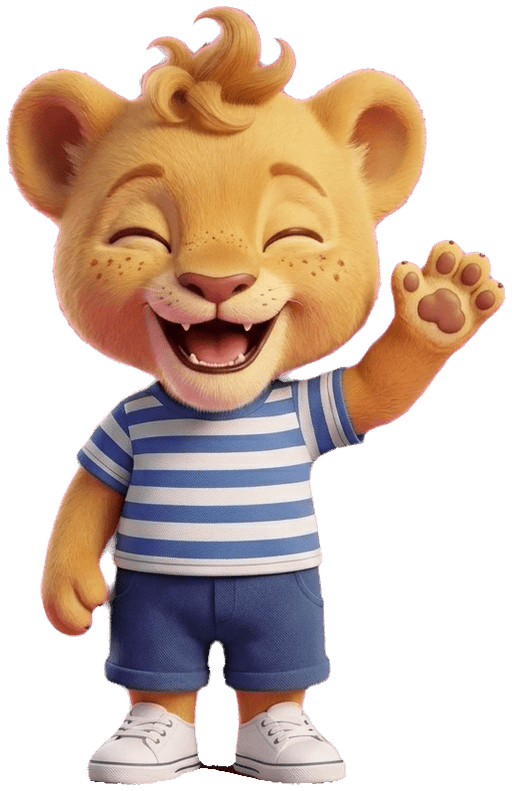
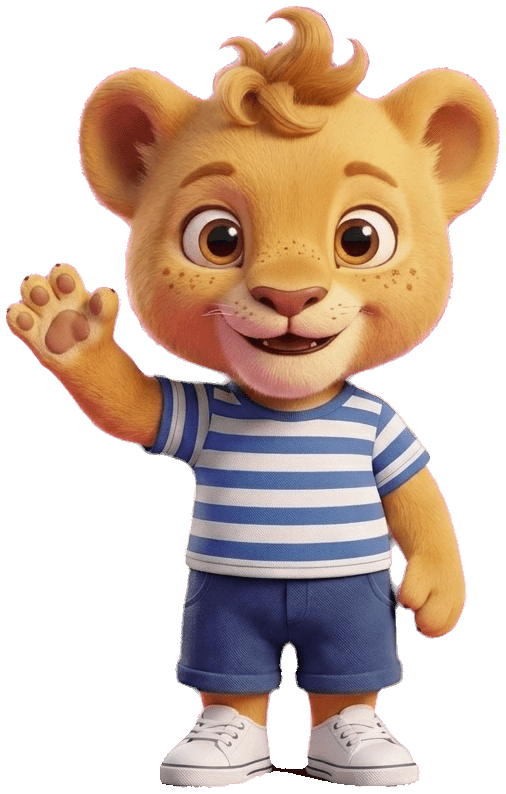
Werft: Schiff seitlich in 3D im Hafenbecken mit eigener Flagge, Wellen und Gischt; Löwe und Löwin winken mit offenen Augen
Claude-Session: https://claude.ai/code/session_01RquttY5Fvxi8zMpAb1Usdz

diff --git a/taleria/lib/features/child/ship_dock.dart b/taleria/lib/features/child/ship_dock.dart
@@ -6,19 +6,23 @@ import '../../core/app_scope.dart';
 import '../../core/assets/asset_keys.dart';
 import '../../core/assets/taleria_asset.dart';
 import '../../domain/avatar.dart';
-import '../common/lively_figure.dart';
+import '../common/ship_flag.dart';
 import '../common/wood_sign.dart';
-import 'shipyard_screen.dart' show FlaggedShip;
 
-/// Hafenbecken in der Werft: das eigene Schiff schwimmt in einem Becken aus
-/// Wasser mit Holzrand, schaukelt, Wellen ziehen vorbei und am Rumpf schäumt
-/// es. So hebt es sich vom Holz der Werft ab (Wunsch von Marc, 16.11.2026).
+/// Bühne oben in der Werft: Blick ins Hafenbecken (Bild `shipyard.dock`), darin
+/// das eigene Schiff von der Seite (`ship.side`) mit der gewählten Flagge am
+/// höchsten Mast. Das Schiff liegt im Wasser: Es schaukelt, vorne am Rumpf
+/// laufen Wellen und Gischt, der untere Rand des Rumpfs liegt unter Wasser
+/// (Wunsch von Marc, 16.11.2026: seitlich in 3D statt schräg von oben).
 /// Ohne Bewegung (Tests, „Bewegung reduzieren“) steht alles still.
 class ShipDock extends StatefulWidget {
-  const ShipDock({super.key, required this.flag, this.height = 230});
+  const ShipDock({super.key, required this.flag, this.height = 300});
 
   final ShipFlag flag;
   final double height;
+
+  /// Spitze des höchsten Masts im Bild `ship.side` (Anteil von Breite und Höhe).
+  static const _mastTip = Offset(0.322, 0.012);
 
   @override
   State<ShipDock> createState() => _ShipDockState();
@@ -51,129 +55,142 @@ class _ShipDockState extends State<ShipDock> with SingleTickerProviderStateMixin
       decoration: BoxDecoration(
         borderRadius: BorderRadius.circular(26),
         border: Border.all(color: WoodColors.edge, width: 3),
-        gradient: const LinearGradient(
-          begin: Alignment.topCenter,
-          end: Alignment.bottomCenter,
-          colors: [WoodColors.light, WoodColors.dark],
-        ),
         boxShadow: const [BoxShadow(color: Color(0x66081C30), blurRadius: 12, offset: Offset(0, 6))],
       ),
-      // Der Holzrand (Steg) um das Wasser.
-      padding: const EdgeInsets.all(7),
       child: ClipRRect(
-        borderRadius: BorderRadius.circular(19),
-        child: Stack(
-          fit: StackFit.expand,
-          children: [
-            const TaleriaAsset(
-              AssetKeys.mapBackground,
-              fit: BoxFit.cover,
-              fallback: ColoredBox(color: Color(0xFF3FB6D3)),
-            ),
-            // Etwas Licht von oben, unten tieferes Blau.
-            const DecoratedBox(
-              decoration: BoxDecoration(
-                gradient: LinearGradient(
-                  begin: Alignment.topCenter,
-                  end: Alignment.bottomCenter,
-                  colors: [Color(0x33FFFFFF), Color(0x00FFFFFF), Color(0x55134A6B)],
-                ),
-              ),
-            ),
-            CustomPaint(painter: _WavePainter(clock: _waves)),
-            // Das Schiff mit Schaum am Rumpf.
-            Align(
-              alignment: const Alignment(0.15, 0.55),
-              child: SeaSway(
-                amount: 1.6,
-                child: Stack(
-                  clipBehavior: Clip.none,
+        borderRadius: BorderRadius.circular(23),
+        child: LayoutBuilder(
+          builder: (context, constraints) {
+            final w = constraints.maxWidth;
+            final h = constraints.maxHeight;
+            final shipWidth = min(w * 0.64, 240.0);
+            final shipHeight = shipWidth * 432 / 512;
+            // Wasserlinie: Dort liegt der Rumpf im Becken.
+            final waterline = h * 0.8;
+            final flagSize = shipWidth * 0.17;
+            return Stack(
+              fit: StackFit.expand,
+              children: [
+                const TaleriaAsset(
+                  AssetKeys.shipyardDock,
+                  fit: BoxFit.cover,
                   alignment: Alignment.bottomCenter,
-                  children: [
-                    Positioned(
-                      bottom: 6,
-                      child: AnimatedBuilder(
-                        animation: _waves,
-                        builder: (context, _) {
-                          final p = 0.5 + 0.5 * sin(_waves.value * 2 * pi * 2);
-                          return CustomPaint(
-                            size: Size(170 + 14 * p, 34),
-                            painter: _FoamPainter(strength: p),
-                          );
-                        },
-                      ),
-                    ),
-                    FlaggedShip(flag: widget.flag, size: 180),
-                  ],
+                  fallback: ColoredBox(color: Color(0xFF3FB6D3)),
                 ),
-              ),
-            ),
-          ],
+                AnimatedBuilder(
+                  animation: _waves,
+                  builder: (context, _) {
+                    final t = _waves.value * 2 * pi;
+                    final bob = sin(t * 2) * 2.5;
+                    final tilt = sin(t * 2 + 0.8) * 0.018;
+                    return Stack(
+                      children: [
+                        Positioned(
+                          left: (w - shipWidth) / 2,
+                          top: waterline - shipHeight * 0.93 + bob,
+                          width: shipWidth,
+                          height: shipHeight,
+                          child: Transform.rotate(
+                            angle: tilt,
+                            alignment: Alignment.bottomCenter,
+                            child: Stack(
+                              clipBehavior: Clip.none,
+                              children: [
+                                const Positioned.fill(child: TaleriaAsset(AssetKeys.shipSide, fit: BoxFit.contain)),
+                                // Die eigene Flagge oben am höchsten Mast.
+                                Positioned(
+                                  left: shipWidth * ShipDock._mastTip.dx - flagSize * 0.12,
+                                  top: shipHeight * ShipDock._mastTip.dy - flagSize * 0.92,
+                                  child: ShipFlagView(flag: widget.flag, size: flagSize),
+                                ),
+                              ],
+                            ),
+                          ),
+                        ),
+                        // Wasser vor dem unteren Rumpf: Das Schiff liegt im Becken, nicht darauf.
+                        Positioned(
+                          left: 0,
+                          right: 0,
+                          top: waterline - 8 + bob * 0.3,
+                          bottom: 0,
+                          child: const DecoratedBox(
+                            decoration: BoxDecoration(
+                              gradient: LinearGradient(
+                                begin: Alignment.topCenter,
+                                end: Alignment.bottomCenter,
+                                colors: [Color(0x002AA6BE), Color(0xCC2AA6BE), Color(0xE61D8AA3)],
+                                stops: [0, 0.35, 1],
+                              ),
+                            ),
+                          ),
+                        ),
+                        Positioned.fill(
+                          child: CustomPaint(
+                            painter: _WaterPainter(
+                              progress: _waves.value,
+                              waterline: waterline,
+                              hull: Rect.fromLTWH(
+                                (w - shipWidth) / 2 + shipWidth * 0.12,
+                                waterline - 6,
+                                shipWidth * 0.8,
+                                12,
+                              ),
+                            ),
+                          ),
+                        ),
+                      ],
+                    );
+                  },
+                ),
+              ],
+            );
+          },
         ),
       ),
     );
   }
 }
 
-/// Helle Wellenlinien, die langsam durch das Becken ziehen.
-class _WavePainter extends CustomPainter {
-  _WavePainter({required this.clock}) : super(repaint: clock);
+/// Wellenlinien auf dem Wasser und Gischt entlang des Rumpfs.
+class _WaterPainter extends CustomPainter {
+  _WaterPainter({required this.progress, required this.waterline, required this.hull});
 
-  final Animation<double> clock;
+  final double progress;
+  final double waterline;
+  final Rect hull;
 
   @override
   void paint(Canvas canvas, Size size) {
-    final t = clock.value;
-    final paint = Paint()
+    final line = Paint()
       ..style = PaintingStyle.stroke
       ..strokeCap = StrokeCap.round
-      ..strokeWidth = 2.2;
-    final rnd = Random(3);
-    for (var i = 0; i < 9; i++) {
-      final y = size.height * (0.15 + 0.8 * rnd.nextDouble());
-      final speed = 0.6 + rnd.nextDouble() * 0.8;
-      final x = ((rnd.nextDouble() + t * speed) % 1.2 - 0.1) * size.width;
-      final w = 18.0 + rnd.nextDouble() * 22;
-      paint.color = Colors.white.withValues(alpha: 0.25 + 0.3 * rnd.nextDouble());
+      ..strokeWidth = 2;
+    final rnd = Random(5);
+    for (var i = 0; i < 10; i++) {
+      final y = waterline - 14 + rnd.nextDouble() * (size.height - waterline + 10);
+      final speed = 0.5 + rnd.nextDouble();
+      final x = ((rnd.nextDouble() + progress * speed) % 1.2 - 0.1) * size.width;
+      final w = 16.0 + rnd.nextDouble() * 22;
+      line.color = Colors.white.withValues(alpha: 0.3 + 0.35 * rnd.nextDouble());
       canvas.drawPath(
         Path()
           ..moveTo(x, y)
-          ..quadraticBezierTo(x + w / 2, y - 4, x + w, y),
-        paint,
+          ..quadraticBezierTo(x + w / 2, y - 3, x + w, y),
+        line,
       );
     }
-  }
-
-  @override
-  bool shouldRepaint(_WavePainter old) => false;
-}
-
-/// Weiche Gischt um den Rumpf: verschwommene helle Ovale, keine harte Kante.
-class _FoamPainter extends CustomPainter {
-  _FoamPainter({required this.strength});
-
-  final double strength;
-
-  @override
-  void paint(Canvas canvas, Size size) {
-    final center = size.center(Offset.zero);
-    final soft = Paint()
-      ..color = Colors.white.withValues(alpha: 0.4 + 0.2 * strength)
-      ..maskFilter = const MaskFilter.blur(BlurStyle.normal, 7);
-    canvas.drawOval(Rect.fromCenter(center: center, width: size.width, height: size.height * 0.7), soft);
-    final crest = Paint()
-      ..style = PaintingStyle.stroke
-      ..strokeWidth = 2
-      ..color = Colors.white.withValues(alpha: 0.7);
-    canvas.drawArc(
-      Rect.fromCenter(center: center, width: size.width * 0.95, height: size.height * 0.75),
-      0.15,
-      pi - 0.3,
-      false,
-      crest,
+    // Weiche Gischt am Rumpf, am Bug (rechts) etwas mehr.
+    final pulse = 0.5 + 0.5 * sin(progress * 2 * pi * 3);
+    final foam = Paint()
+      ..color = Colors.white.withValues(alpha: 0.5 + 0.2 * pulse)
+      ..maskFilter = const MaskFilter.blur(BlurStyle.normal, 4);
+    canvas.drawOval(hull.inflate(2), foam);
+    canvas.drawOval(
+      Rect.fromCenter(center: hull.centerRight.translate(-4, 0), width: 34 + 8 * pulse, height: 14),
+      foam,
     );
   }
 
   @override
-  bool shouldRepaint(_FoamPainter old) => old.strength != strength;
+  bool shouldRepaint(_WaterPainter old) => old.progress != progress || old.waterline != waterline;
 }

diff --git a/taleria/lib/core/assets/asset_keys.dart b/taleria/lib/core/assets/asset_keys.dart
@@ -30,6 +30,10 @@ abstract final class AssetKeys {
 
   /// Hintergrund der Werft (BILDER.md Bild 176). Bis er da ist: [homeBackground].
   static const shipyardBackground = 'shipyard.background';
+
+  /// Hafenbecken der Werft und das eigene Schiff von der Seite (Bühne oben in der Werft).
+  static const shipyardDock = 'shipyard.dock';
+  static const shipSide = 'ship.side';
   static const iconMap = 'icon.map';
   static const iconTreasure = 'icon.treasure';
   static const iconTasks = 'icon.tasks';

diff --git a/taleria/ASSETS_LICENSES.md b/taleria/ASSETS_LICENSES.md
@@ -17,7 +17,7 @@ Bei Bildern aus Gemini steht Marc als Urheber; vor dem Start prüfen, ob die Nut
 | `home.background` | `assets/images/home.background.jpg` | Bild (KI) | Marc mit Google Gemini | 10.10.2026 | laut Nutzungsbedingungen von Gemini, vor dem Start prüfen | Original in `design/gemini/`, freigestellt mit `tool/bilder_freistellen.py`. |
 | `parent.lighthouse` | `assets/images/parent.lighthouse.png` | Bild (KI) | Marc mit Google Gemini | 10.10.2026 | laut Nutzungsbedingungen von Gemini, vor dem Start prüfen | Original in `design/gemini/`, freigestellt mit `tool/bilder_freistellen.py`. |
 | `icon.map` | `assets/images/icon.map.png` | Bild (KI) | Marc mit Google Gemini | 10.10.2026 | laut Nutzungsbedingungen von Gemini, vor dem Start prüfen | Original in `design/gemini/`, freigestellt mit `tool/bilder_freistellen.py`. |
-| `avatar.lion*`, `avatar.lioness*`, `icon.games`, `shipyard.background`, `critter.fish`, `critter.whale`, `critter.dolphin` | `assets/images/…` | Bild (KI) | Claude Code mit Google Gemini (API, Marcs Konto) | 16.11.2026 | laut Nutzungsbedingungen von Gemini, vor dem Start prüfen | Original in `design/gemini/`, erstellt mit `tool/gemini_bild.py` (Texte in BILDER.md 4q, 4r, 4s), freigestellt mit `tool/bilder_freistellen.py`, verkleinert mit `tool/bilder_verkleinern.py` |
+| `avatar.lion*`, `avatar.lioness*`, `icon.games`, `shipyard.background`, `shipyard.dock`, `ship.side`, `critter.fish`, `critter.whale`, `critter.dolphin` | `assets/images/…` | Bild (KI) | Claude Code mit Google Gemini (API, Marcs Konto) | 16.11.2026 | laut Nutzungsbedingungen von Gemini, vor dem Start prüfen | Original in `design/gemini/`, erstellt mit `tool/gemini_bild.py` (Texte in BILDER.md 4q, 4r, 4s), freigestellt mit `tool/bilder_freistellen.py`, verkleinert mit `tool/bilder_verkleinern.py` |
 | `logbook.hafen`, `logbook.tauschinsel`, `logbook.wunschinsel`, `logbook.spar-insel` | `assets/images/logbook.*.jpg` | Vorschaubild | Claude Code (erste Seite der Logbuch-PDFs, mit `pdftoppm`) | 16.11.2026 | wie die Bilder im Logbuch (Gemini, eigene Gestaltung) | Aus `logbuch/web/*.pdf`, siehe `tool/logbuch_verkleinern.py` |
 | `icon.treasure` | `assets/images/icon.treasure.png` | Bild (KI) | Marc mit Google Gemini | 10.10.2026 | laut Nutzungsbedingungen von Gemini, vor dem Start prüfen | Original in `design/gemini/`, freigestellt mit `tool/bilder_freistellen.py`. |
 | `icon.tasks` | `assets/images/icon.tasks.png` | Bild (KI) | Marc mit Google Gemini | 10.10.2026 | laut Nutzungsbedingungen von Gemini, vor dem Start prüfen | Original in `design/gemini/`, freigestellt mit `tool/bilder_freistellen.py`. |

diff --git a/taleria/BILDER.md b/taleria/BILDER.md
@@ -522,6 +522,8 @@ Am 16.11.2026 mit Marc: Die Werft bekommt einen eigenen Hintergrund statt des Sc
 | Nr. | Datei | Bild | Anhängen | Stand |
 | --- | --- | --- | --- | --- |
 | 176 | `shipyard.background` | Werft von innen | Hafen-Kartenbild | da (Claude mit Gemini, 16.11.2026) |
+| 177 | `shipyard.dock` | Werft mit Hafenbecken (Bühne oben in der Werft) | Hafen-Kartenbild | da (Claude mit Gemini, 16.11.2026) |
+| 178 | `ship.side` | Crew-Schiff genau von der Seite, ohne Flagge (die App setzt die gewählte Flagge) | Crew-Schiff (`ship.crew`) | da (Claude mit Gemini, 16.11.2026) |
 
 Text für Bild 176:
 
